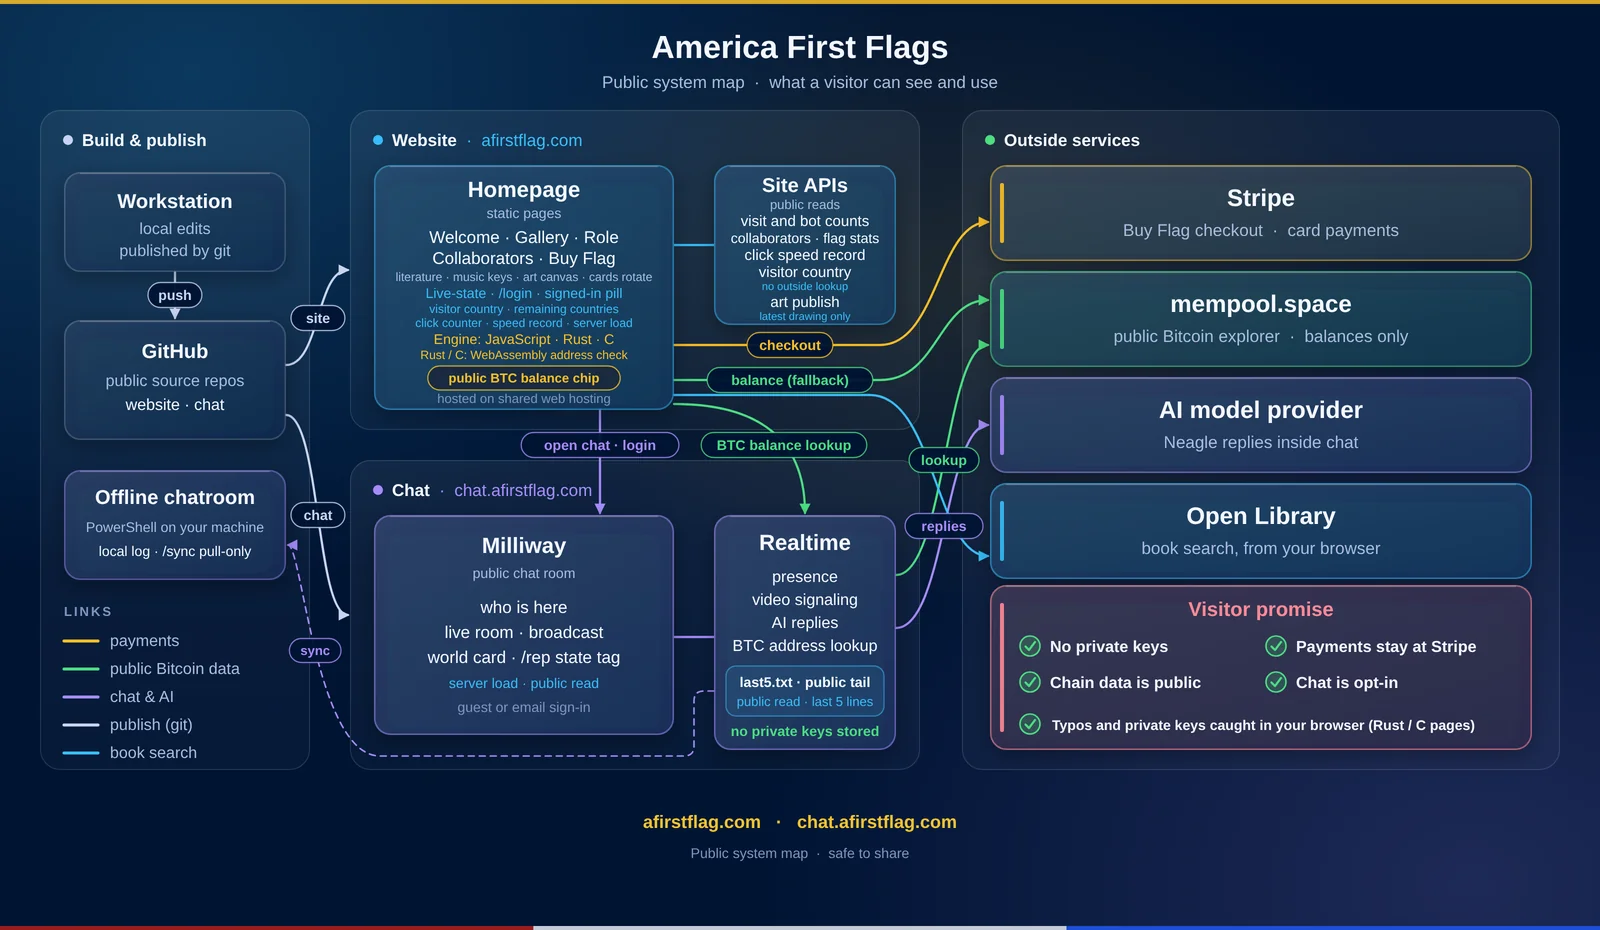
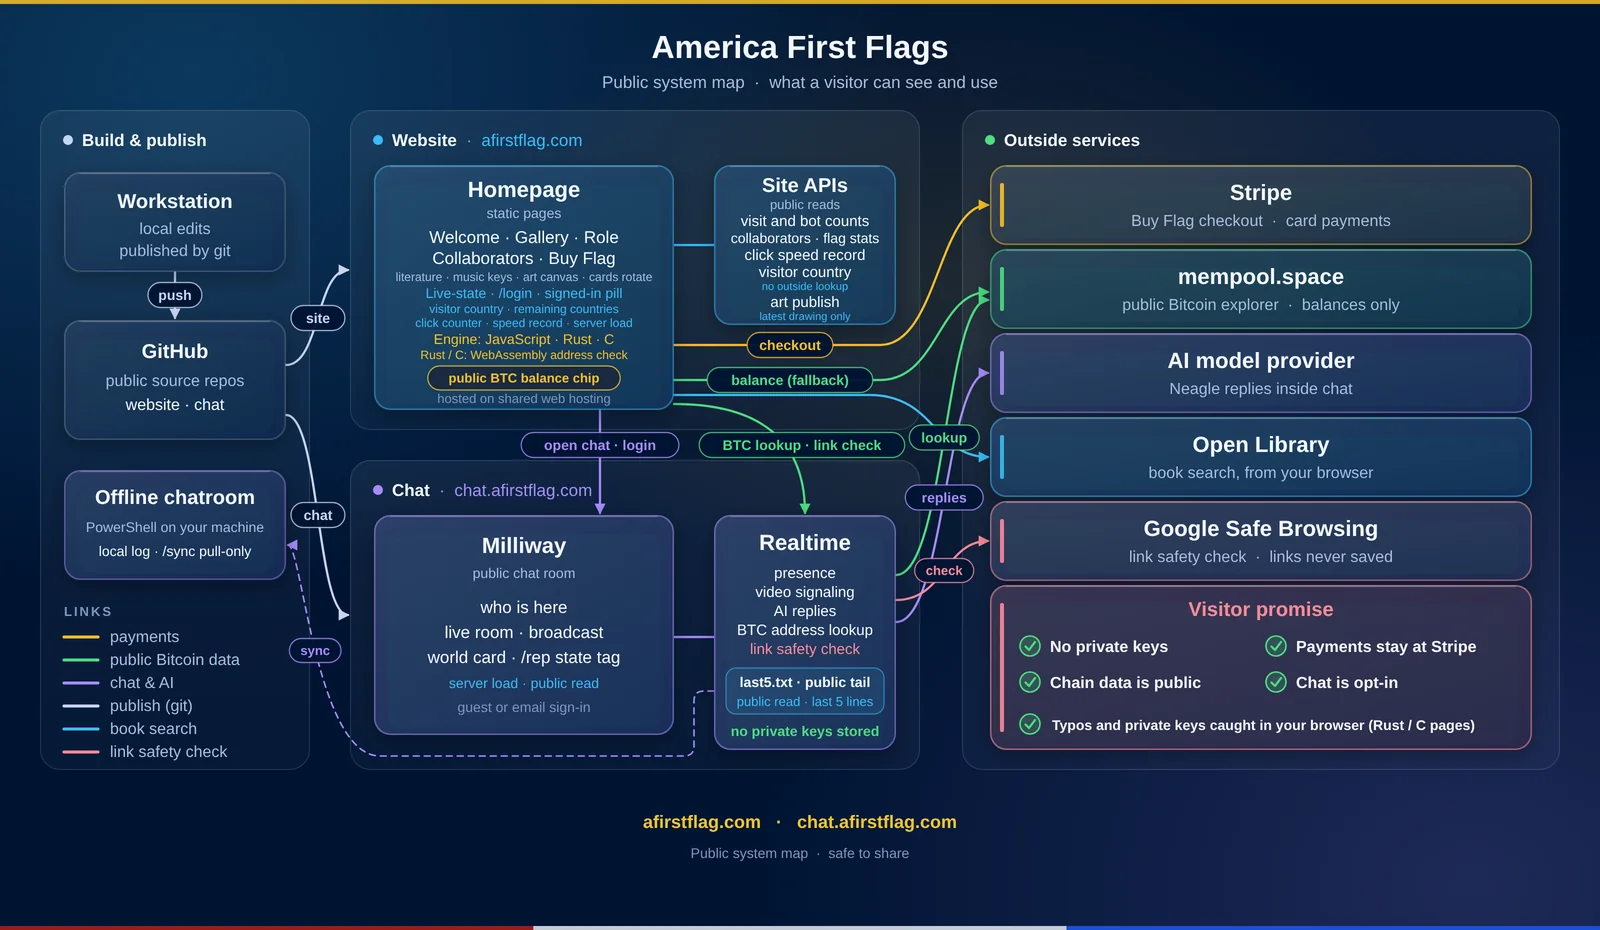
CHG-107: public architecture map rev 14 (?v=106)

diff --git a/index.html b/index.html
@@ -1668,10 +1668,10 @@
       </button>
       <div class="drawer-body" id="how-panel">
         <p class="how-lede">Public system map: what a visitor can see and use. Tap the map to open it full size.</p>
-        <a class="how-map" href="/images/architecture-public.png?v=098" target="_blank" rel="noopener">
+        <a class="how-map" href="/images/architecture-public.png?v=106" target="_blank" rel="noopener">
           <picture>
-            <source srcset="/images/architecture-public.webp?v=098" type="image/webp">
-            <img src="/images/architecture-public.png?v=098" width="1600" height="930" loading="lazy" decoding="async" alt="Public system map of America First Flags. The website, afirstflag.com, serves the homepage sections (welcome, gallery, role, collaborators, and Buy Flag, plus a public BTC balance chip) and site APIs for visit and bot counts, collaborators, flag stats, the click speed record, art publish, and the visitor country (looked up on the site, no outside lookup). The chat, chat.afirstflag.com, is the Milliway public chat room with realtime presence, video signaling, AI replies, and BTC address lookup, and stores no private keys. Outside services: Stripe for Buy Flag checkout and card payments, mempool.space as the public Bitcoin explorer for balances only, and an AI model provider for Neagle replies inside chat. Both sites are published from a workstation through public GitHub repos. Visitor promise: no private keys, payments stay at Stripe, chain data is public, chat is opt-in. The homepage Live-state panel has a /login command that opens chat sign-in. The chat publishes a public tail of the last 5 public chat lines (last5.txt), and an offline chatroom on the owner's machine pulls that tail with /sync. The Live-state panel also shows a signed-in pill, and signed-in chat members can add a state tag with /rep. The Live-state panel also has an Engine row (Run page in JavaScript, Rust, or C); the Rust and C pages check Bitcoin addresses in the visitor's browser with WebAssembly before any lookup is sent, so typos and private keys are caught there on those pages. The Live-state panel also has a click counter that stays in the visitor's browser (browser-local storage); its best click speed runs can set a site-wide click speed record kept by the site APIs, and the Buy Flag window rotates its cards while open. The Live-state panel also shows a visitor country pill with a flag, found from the visitor's IP address in a database kept on the site, so the address is not sent to any outside service. A remaining countries pill shows how many countries no visitor has come from yet. The Live-state panel also shows the chat server load, read from a public read-only feed on the chat. The homepage also has a literature search: the visitor's browser asks Open Library, an outside book catalog, for books matching a title. The homepage also has a music keyboard that plays notes in the visitor's browser, with no outside requests. The homepage also has an art canvas: visitors draw in their browser, and can publish one drawing that replaces the previous one.">
+            <source srcset="/images/architecture-public.webp?v=106" type="image/webp">
+            <img src="/images/architecture-public.png?v=106" width="1600" height="930" loading="lazy" decoding="async" alt="Public system map of America First Flags. The website, afirstflag.com, serves the homepage sections (welcome, gallery, role, collaborators, and Buy Flag, plus a public BTC balance chip) and site APIs for visit and bot counts, collaborators, flag stats, the click speed record, art publish, and the visitor country (looked up on the site, no outside lookup). The chat, chat.afirstflag.com, is the Milliway public chat room with realtime presence, video signaling, AI replies, BTC address lookup, and a link safety check, and stores no private keys. Outside services: Stripe for Buy Flag checkout and card payments, mempool.space as the public Bitcoin explorer for balances only, an AI model provider for Neagle replies inside chat, and Google Safe Browsing for the link safety check. Both sites are published from a workstation through public GitHub repos. Visitor promise: no private keys, payments stay at Stripe, chain data is public, chat is opt-in. The homepage Live-state panel has a /login command that opens chat sign-in. The chat publishes a public tail of the last 5 public chat lines (last5.txt), and an offline chatroom on the owner's machine pulls that tail with /sync. The Live-state panel also shows a signed-in pill, and signed-in chat members can add a state tag with /rep. The Live-state panel also has an Engine row (Run page in JavaScript, Rust, or C); the Rust and C pages check Bitcoin addresses in the visitor's browser with WebAssembly before any lookup is sent, so typos and private keys are caught there on those pages. The Live-state panel also has a click counter that stays in the visitor's browser (browser-local storage); its best click speed runs can set a site-wide click speed record kept by the site APIs, and the Buy Flag window rotates its cards while open. The Live-state panel also shows a visitor country pill with a flag, found from the visitor's IP address in a database kept on the site, so the address is not sent to any outside service. A remaining countries pill shows how many countries no visitor has come from yet. The Live-state panel also shows the chat server load, read from a public read-only feed on the chat. The homepage also has a literature search: the visitor's browser asks Open Library, an outside book catalog, for books matching a title. The homepage also has a music keyboard that plays notes in the visitor's browser, with no outside requests. The homepage also has an art canvas: visitors draw in their browser, and can publish one drawing that replaces the previous one.">
           </picture>
         </a>
       </div>
